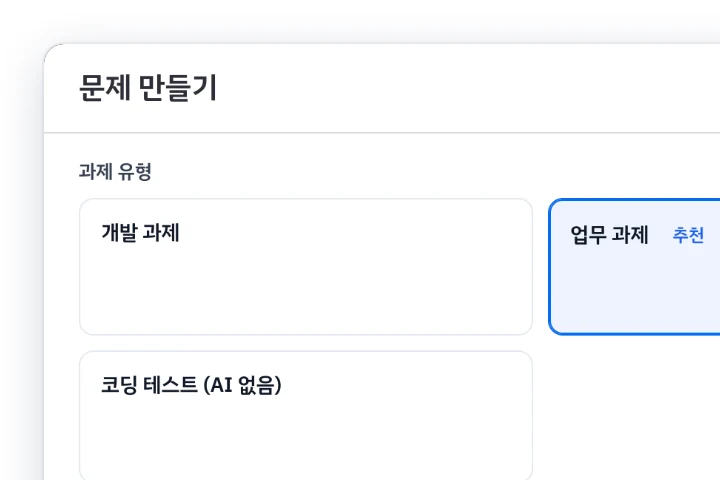
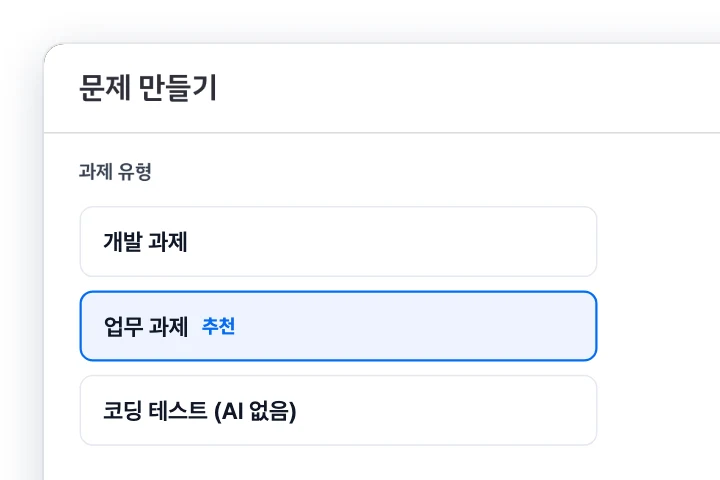
AI 역량검사 과제 만들기·응시 환경 이미지 단순화
과제 만들기
- STEP 1: 공고 입력 칸에 요구사항 몇 줄만, 글자 수 표시 삭제
- STEP 2: 과제 유형 큰 카드 3장 → 낮은 줄 3개(선택된 업무 과제만 블루)
- STEP 3: 평가 항목 탭 한 줄만 남기고 실제 기준 문장은 뼈대(설명 막대 + 1점·2점 칸)로

응시 환경
- 전체 화면 공유: 회색 막대 대신 일반 내용 글(자료 분석 보고서 작성 등)로
- 얼굴 확인: 작은 카드에서 카메라 창이 잘리지 않게 이미지 가운데를 보여 줌(object-position)
- 탭 이탈·붙여넣기: 빈 입력창에 지원자가 직접 쓰는 가상의 지시와 커서

Changed region(s): [[0.0917, 0.4062, 1.0, 0.875], [0.1222, 0.4688, 0.275, 0.5312]]

diff --git a/app/ai-assessment/page.tsx b/app/ai-assessment/page.tsx
@@ -60,8 +60,8 @@ const KINDS = [
 // 이미지는 실제 응시 화면을 가공한 것(얼굴은 실루엣, 시간·사용량은 지움 — 원본·스크립트는 _docs/홈페이지 개편/도식/캡처가공). 아이콘은 두지 않는다.
 const ENV = [
   { title: "전체 화면 공유", body: "모니터 전체를 공유한 채로 응시하고, 보조 모니터가 있는지도 확인합니다.", img: "/assessment-env-screen.webp", alt: "응시 화면 왼쪽 위의 화면 녹화 중 표시와 과제 설명", big: true },
-  { title: "얼굴 확인", body: "자리를 비우거나 다른 사람이 함께 보이면 그 순간을 기록합니다.", img: "/assessment-env-face.webp", alt: "응시 화면의 카메라 창: 녹화 중 표시", big: false },
-  { title: "탭 이탈·붙여넣기", body: "다른 탭으로 나가거나 글을 붙여 넣으면 기록에 남습니다.", img: "/assessment-env-paste.webp", alt: "AI 어시스턴트 입력창 위 안내: 붙여 넣은 글은 기록되고 본인이 쓴 지시로 보지 않음", big: false },
+  { title: "얼굴 확인", body: "자리를 비우거나 다른 사람이 함께 보이면 그 순간을 기록합니다.", img: "/assessment-env-face.webp", alt: "응시 화면의 카메라 창: 녹화 중 표시", big: false, pos: "center top" }, // 작은 카드에서 카메라 창(가운데)이 잘리지 않게(11/25)
+  { title: "탭 이탈·붙여넣기", body: "다른 탭으로 나가거나 글을 붙여 넣으면 기록에 남습니다.", img: "/assessment-env-paste.webp", alt: "AI 어시스턴트 입력창 위 안내 '직접 쓴 지시가 평가돼요'와 지원자가 직접 입력하는 지시", big: false },
 ];
 
 // 제품 페이지 FAQ는 코드에 고정한다(어드민 FAQ는 홈 전용).
@@ -244,7 +244,7 @@ export default function AiAssessmentPage() {
                   <h3>{e.title}</h3>
                   <p>{e.body}</p>
                 </div>
-                <img src={e.img} alt={e.alt} width={720} height={400} loading="lazy" />
+                <img src={e.img} alt={e.alt} width={720} height={400} loading="lazy" style={"pos" in e ? { objectPosition: e.pos } : undefined} />
               </div>
             ))}
           </div>
